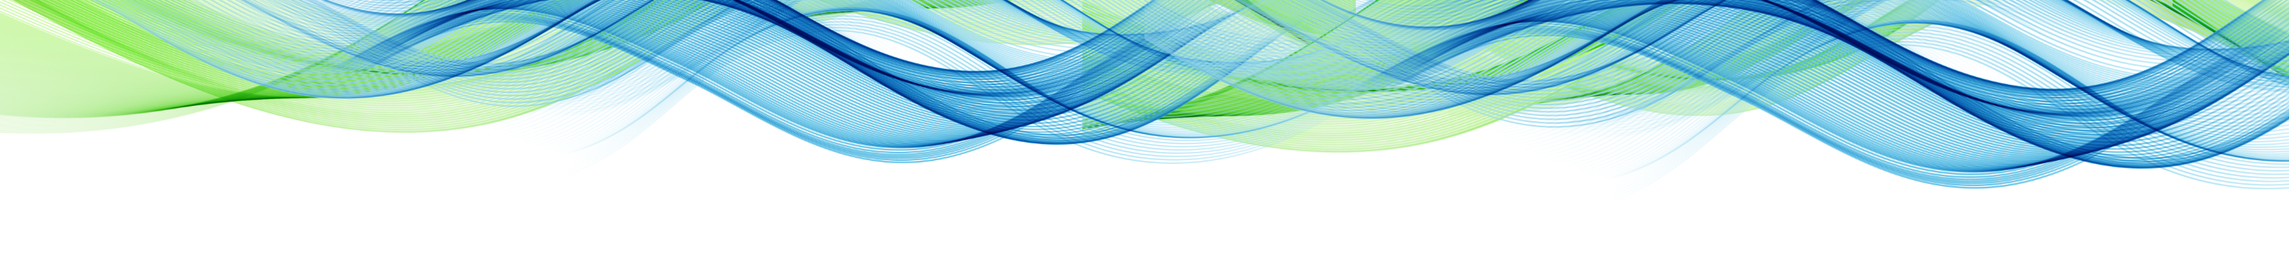
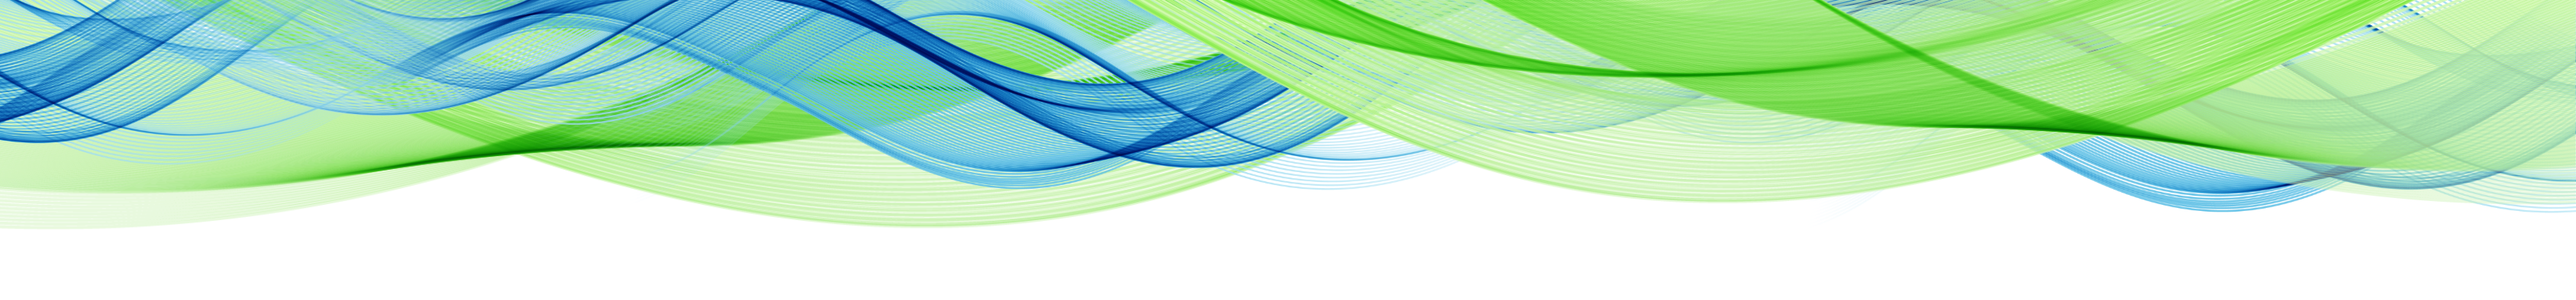
Lecseréltem a header és a footer bcgroundod

diff --git a/styles.css b/styles.css
@@ -62,7 +62,7 @@ a:hover {
     left: 0;
     width: 100vw;
     margin-top: 5vh;
-    margin-bottom: -2vh;
+    margin-bottom: -3vh;
     margin-left: -0.5vw;
     justify-content: space-around;
     align-items: center;

diff --git a/pages/gallery.css b/pages/gallery.css
@@ -110,7 +110,7 @@ a:hover {
     left: 0;
     width: 99vw;
     margin-top: 5vh;
-    margin-bottom: -2vh;
+    margin-bottom: -3vh;
     margin-left: -1vw;
     justify-content: space-around;
     align-items: center;
